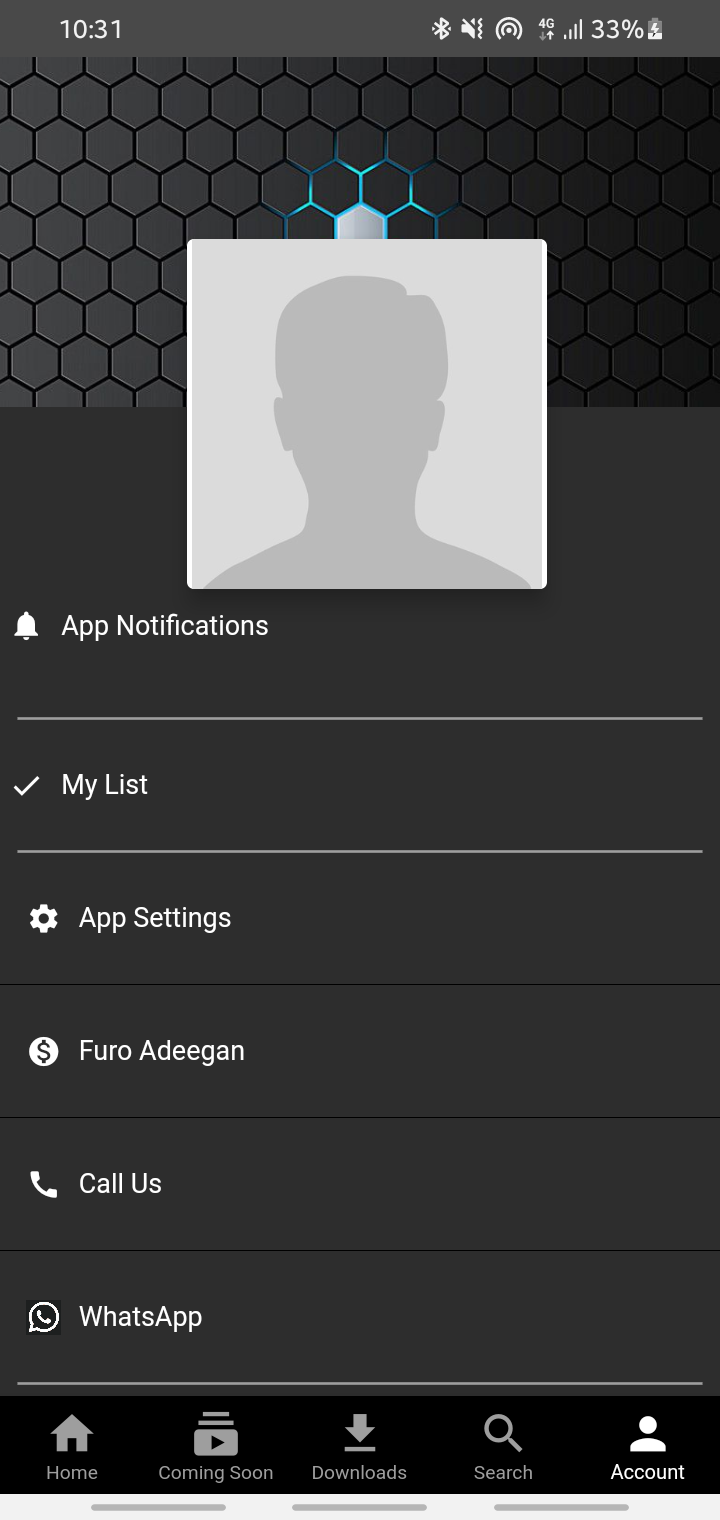
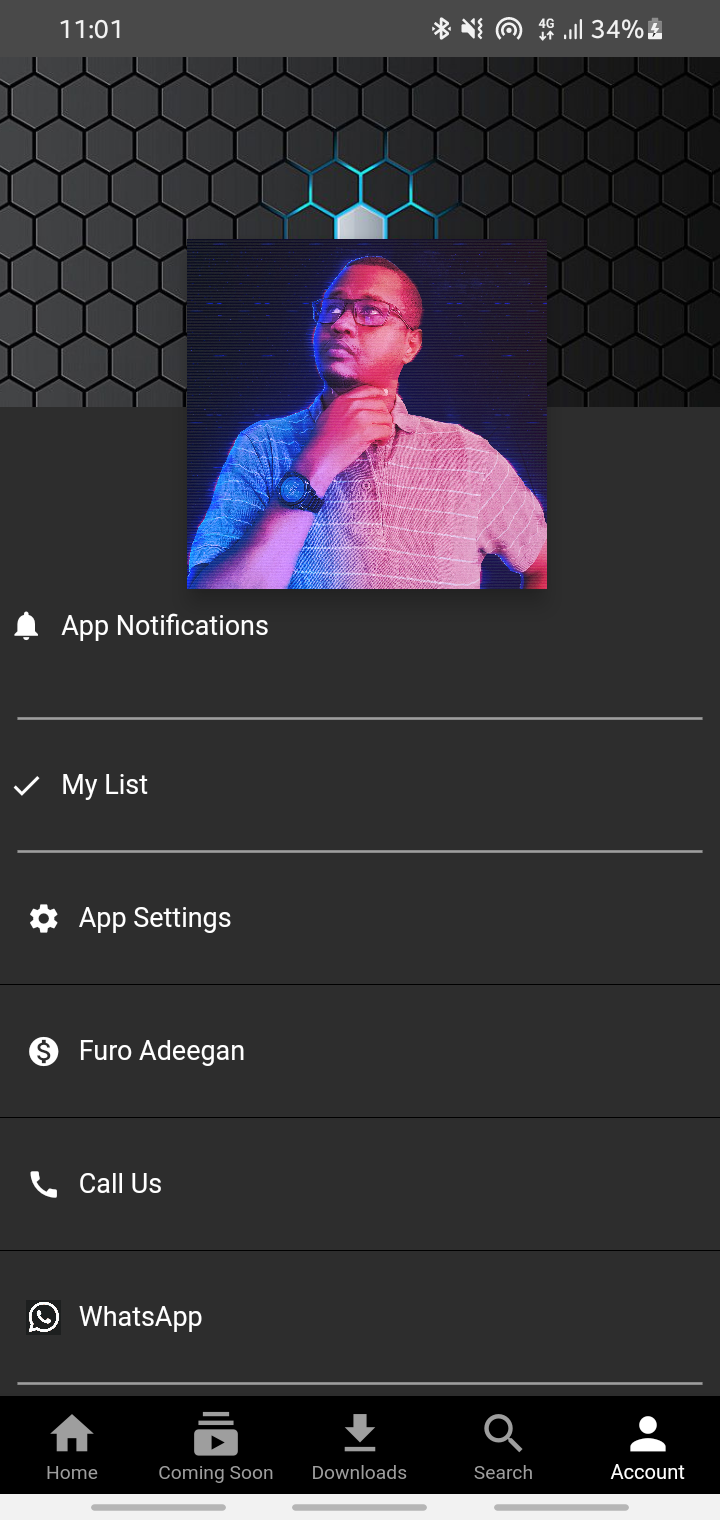
cool

Changed region(s): [[0.2444, 0.1546, 0.7639, 0.402], [0.0917, 0.0, 0.1528, 0.0309], [0.825, 0.0, 0.8556, 0.0309]]

diff --git a/lib/screens/account.dart b/lib/screens/account.dart
@@ -388,7 +388,7 @@ class MySliverAppBar extends SliverPersistentHeaderDelegate {
         Center(
           child: Opacity(
             opacity: shrinkOffset / expandedHeight,
-            child: const Text("Mudane/Marwo"),
+            child: const Text("Mohamed Osman Abdulle"),
           ),
         ),
         Positioned(
@@ -401,7 +401,10 @@ class MySliverAppBar extends SliverPersistentHeaderDelegate {
               child: SizedBox(
                 height: expandedHeight,
                 width: MediaQuery.of(context).size.width / 2,
-                child: Image.asset(Assets.avatar),
+                child: Image.asset(
+                  Assets.avatar,
+                  fit: BoxFit.cover,
+                ),
               ),
             ),
           ),

diff --git a/lib/assets.dart b/lib/assets.dart
@@ -34,7 +34,7 @@ class Assets {
   static const String indhojecel = '${_images}indho_jecel.png';
 
   static const String whatsApp = '${_images}whatsapp.jpg';
-  static const String avatar = '${_images}avatar.jpg';
+  static const String avatar = '${_images}jaras.jpg';
   static const String chat = '${_images}chat.jpg';
   static const String background = '${_images}a.jpg';
 
